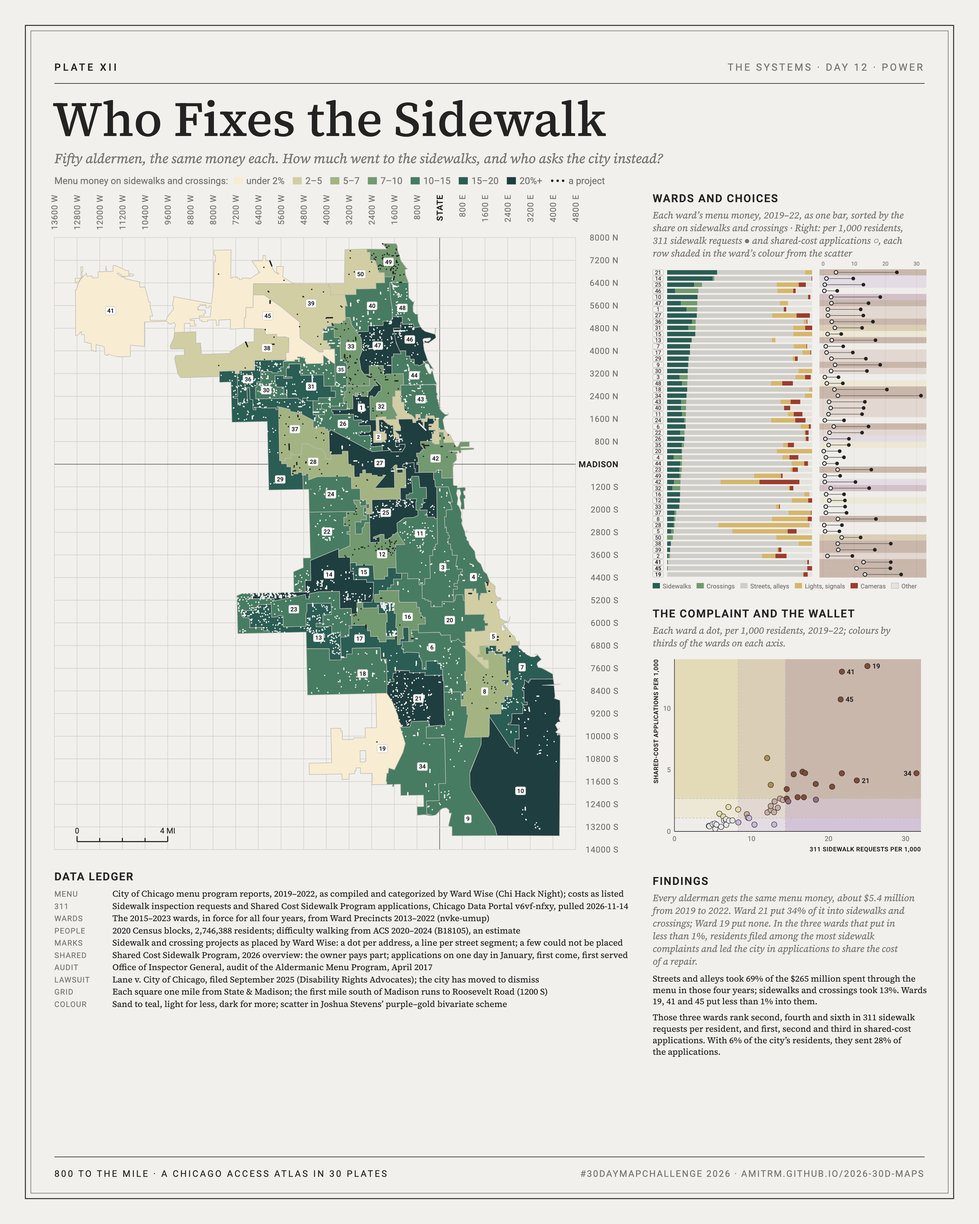
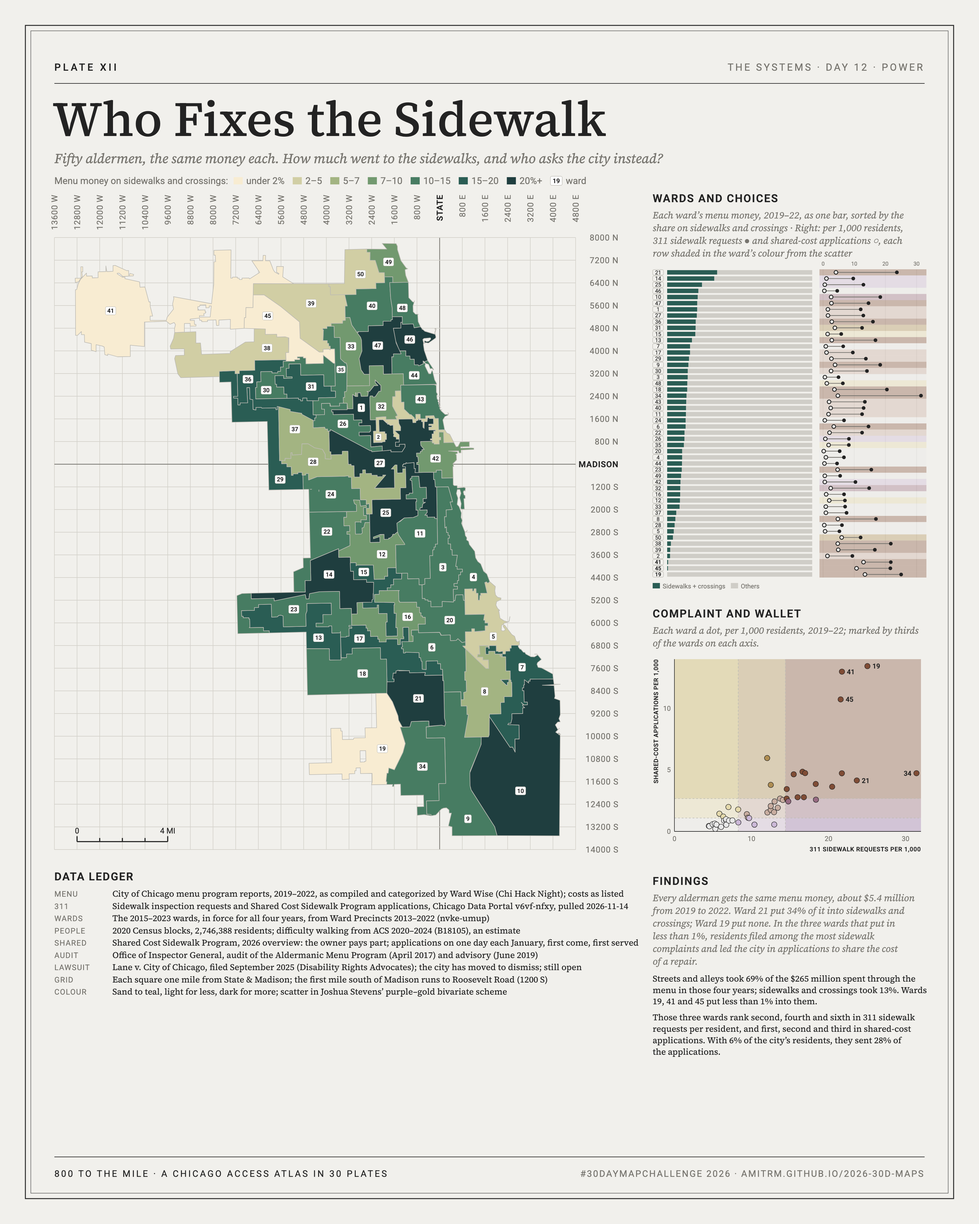
Day 12: final check; two spending groups, Complaint and Wallet, Chapter II intro
Remove the project dots; spending in two groups (sidewalks + crossings, others) on the
chart and in the tooltip; walking difficulty as a share; ten wards at each end on the page;
scatter retitled Complaint and Wallet without a frame. Fact-check wording for the Inspector
General audit, Lane v. City of Chicago and the shared-cost program; median days now counts
closed requests. Landing: Chapter II description covers Plates VII-XII.

diff --git a/src/plates/day12.js b/src/plates/day12.js
@@ -14,7 +14,7 @@ import { gridLines, formatAddress, toMiles } from '../lib/grid.js';
 export const W_COL = 300;
 export const CHART_TITLE = 'Wards and Choices';
 export const CHART_NOTE = 'Each ward’s menu money, 2019–22, as one bar, sorted by the share on sidewalks and crossings · Right: per 1,000 residents, 311 sidewalk requests ● and shared-cost applications ○';
-export const INSET_TITLE = 'The complaint and the wallet';
+export const INSET_TITLE = 'Complaint and Wallet';
 // the map's seven classes of menu share (breaks in plate.json: 2, 5, 7, 10, 15, 20%), light to dark
 export const MAP_TONES = ['#E4E2DC', '#CFCDC6', '#B6B4AD', '#9A9891', '#7C7A74', '#5A5954', '#3A3936'];
 // color mode, chosen 2026-11-14 after a test of 16 palettes (.private/day12-palette-*.png):
@@ -62,23 +62,23 @@ export function wardSheet(w, years, fill, cat, rk) {
     num: String(w.ward), name: `Ward ${w.ward}`, sub: `${pct(w.share)} on sidewalks`, fill, on: isDark(fill) ? '#FFFFFF' : C.ink,
     blocks: [
       { sec: `The alderman · menu money ${yy}` },
-      { bar: CATS.map((c) => [+(w[c] / w.total).toFixed(4), cat[c]]) },
+      { bar: [[+w.share.toFixed(4), cat.sidewalks], [+(1 - w.share).toFixed(4), cat.streets]] }, // sidewalks + crossings, others
       { row: ['Total', `$${(w.total / 1e6).toFixed(1)}M`] },
       { row: ['Sidewalks and crossings', pct(w.share), `${ord(rk.share)} of 50`] },
       { sec: 'The complaint · 311 sidewalk requests' },
       { row: ['Filed, per 1,000 residents', w.filed1k.toFixed(1), `${ord(rk.filed1k)} of 50`] },
       { row: ['Open today · 3 years or more', `${fmt(w.open)} · ${fmt(w.open3)}`] },
-      { row: ['Half closed within', `${fmt(w.closeDays)} days`] },
+      { row: ['Closed requests: half within', `${fmt(w.closeDays)} days`] },
       { sec: 'The wallet · shared-cost applications' },
       { row: ['Per 1,000 residents', w.shared1k.toFixed(1), `${ord(rk.shared1k)} of 50`] },
-      { foot: `${fmt(w.pop)} residents · about ${fmt(w.amb)} with a difficulty walking` },
+      { foot: `${fmt(w.pop)} residents · about ${Math.round((100 * w.amb) / w.pop)}% with a difficulty walking` },
     ],
   });
 }
 const attr = (s) => esc(s).replace(/"/g, '&quot;');
 
 export function renderDay12(data, { mode = 'gray', variant = 'plate', palette, chartOpts = {}, insetOpts = {} } = {}) {
-  const { wards, lines = [], ticks = [], summary } = data;
+  const { wards, summary } = data;
   const years = summary.years;
   const out = [];
   const isPlate = variant === 'plate';
@@ -92,7 +92,6 @@ export function renderDay12(data, { mode = 'gray', variant = 'plate', palette, c
   const PAL = color ? (typeof palette === 'object' ? palette : PALETTES[palette ?? COLOR_PALETTE]) : PALETTES.gray;
   const CAT = color ? { ...CAT_COLOR, ...(PAL.cat ?? {}) } : CAT_GRAY; // a palette may recolour the chart's sidewalks and crossings
   const BV = PAL.biv ?? BIV; // the scatter's 3 x 3 scheme: the palette's own, else the default
-  const byWard = new Map(wards.map((w) => [w.ward, w]));
   // ranks among the 50 wards (1 = highest), for the tooltip sheet
   const rankOf = (key, w) => 1 + wards.filter((x) => x[key] > w[key]).length;
   // the hover hooks every view of a ward shares: the sheet tooltip, and data-keys to light it up everywhere
@@ -142,26 +141,10 @@ export function renderDay12(data, { mode = 'gray', variant = 'plate', palette, c
     for (const x of g.xs) out.push(`<line x1="${X(x)}" x2="${X(x)}" y1="${fy0}" y2="${fy1}" stroke="${x === 0 ? C.pencil : C.grid}" stroke-width="${x === 0 ? 0.8 : 0.6}"/>`);
     for (const y of g.ys) out.push(`<line x1="${fx0}" x2="${fx1}" y1="${Y(y)}" y2="${Y(y)}" stroke="${y === 0 ? C.pencil : C.grid}" stroke-width="${y === 0 ? 0.8 : 0.6}"/>`);
     // wards in place, split by a thin paper gap
-    const WX = () => X;
-    const WY = () => Y;
     // ward outlines in light gray (frame), at the user's request: the series' one other exception to
     // "no outlines" after Plate VIII's coastline
     for (const w of wards) out.push(piece(w, X, Y, PAL.map[w.cls], isMap ? 0.8 : 0.6, C.frame));
-    // projects: ink on the lighter tones, paper on the two darkest
-    const rDot = isMap ? 0.95 : 0.75;
-    const marks = { ink: [], paper: [] };
-    for (const [wn, p] of lines) {
-      const w = byWard.get(wn); if (!w) continue;
-      const fx = WX(w), fy = WY(w);
-      marks[isDark(PAL.map[w.cls]) ? 'paper' : 'ink'].push('M' + p.map(([x, y]) => `${fx(x).toFixed(1)},${fy(y).toFixed(1)}`).join('L'));
-    }
-    for (const [wn, x, y] of ticks) {
-      const w = byWard.get(wn); if (!w) continue;
-      marks[isDark(PAL.map[w.cls]) ? 'paper' : 'ink'].push(`M${WX(w)(x).toFixed(1)} ${WY(w)(y).toFixed(1)}h0.01`);
-    }
-    for (const [key, col] of [['ink', C.ink], ['paper', C.paper]]) {
-      out.push(`<path d="${marks[key].join('')}" fill="none" stroke="${col}" stroke-width="${(2 * rDot).toFixed(2)}" stroke-linecap="round" stroke-linejoin="round" pointer-events="none"/>`);
-    }
+    // (the sidewalk and crossing projects are no longer drawn: user, 2026-11-14)
     // ward numbers in white boxes, each at the spot the notebook found inside its ward (lx, ly), where a
     // box of the plate's size clears the ward's boundary by 1.2 px or more; narrow wards (ls < 1) take a
     // smaller box. Wards do not overlap, so neither do the boxes. The page's map is larger, so its
@@ -187,11 +170,11 @@ export function renderDay12(data, { mode = 'gray', variant = 'plate', palette, c
     // legend
     const lgs = 9 * T;
     const sw = (fill) => `<rect x="-5" y="-4" width="10" height="8" fill="${fill}"/>`;
-    const dotMark = `<circle r="1.4" fill="${C.ink}"/><circle cx="6" r="1.4" fill="${C.ink}"/><circle cx="-6" r="1.4" fill="${C.ink}"/>`;
+    const numMark = (fs) => `<rect x="-6.5" y="-5" width="13" height="10" rx="1.5" fill="#FFFFFF" stroke="${C.frame}" stroke-width="0.5"/><text y="${(fs * 0.36).toFixed(1)}" font-size="${fs}" font-weight="600" text-anchor="middle" fill="${C.ink}" font-family="Roboto, sans-serif">19</text>`;
     if (isPlate) {
       const short = [['head', 'Menu money on sidewalks and crossings']];
       CLASS_LABELS.forEach((l, i) => short.push([sw(PAL.map[i]), i === 0 ? 'under 2%' : i === CLASS_LABELS.length - 1 ? '20%+' : l.replace('%', '')]));
-      short.push([dotMark, 'a project']);
+      short.push([numMark(7), 'ward']);
       let lx = 60;
       const y = 203;
       for (const [m, lab] of short) {
@@ -200,14 +183,14 @@ export function renderDay12(data, { mode = 'gray', variant = 'plate', palette, c
           lx += textWidth(`${lab}:`, lgs) + 6;
           continue;
         }
-        const mw = m.includes('cx="6"') ? 16 : 10;
+        const mw = m.includes('<text') ? 13 : 10;
         out.push(`<g transform="translate(${lx + mw / 2} ${y - lgs * 0.35})">${m}</g>`);
         out.push(text(lx + mw + 4, y, lab, { size: lgs, fill: C.pencil }));
         lx += mw + 4 + textWidth(lab, lgs) + 9;
       }
     } else {
       const items = [['head', `Menu money on sidewalks, ${years[0]}–${String(years[1]).slice(2)}`], ...CLASS_LABELS.map((l, i) => [sw(PAL.map[i]), l]), ['gap'],
-        [dotMark, 'A sidewalk or crossing project'], [`<rect x="-6.5" y="-5" width="13" height="10" rx="1.5" fill="#FFFFFF" stroke="${C.frame}" stroke-width="0.5"/><text y="3" font-size="8" font-weight="600" text-anchor="middle" fill="${C.ink}">19</text>`, 'Ward number (2015–2023 wards)']];
+        [numMark(8), 'Ward number (2015–2023 wards)']];
       out.push(legendBox(items, { x: rx, bottom: Y(ext.south) - k, k, size: lgs }));
     }
   }
@@ -225,11 +208,11 @@ export function renderDay12(data, { mode = 'gray', variant = 'plate', palette, c
   let uy = 0;
 
   if (isPlate || isChart) {
-    // page chart options (study): width, row, font, cats ('all' | 'three'), dots, top (N wards each end)
+    // page chart options: width, row, font, cats ('two' | 'three' | 'all'), dots, top (N wards each end)
     // the page chart (chosen 2026-11-14, option B of .private/day12-middle-study): drawn 1:1 in the 259 px
-    // column at 10 px, the 5 wards that spent most and the 5 that spent least (user, B2), three categories with the
-    // sidewalk share printed, the dots kept. The plate keeps all 50 rows and six categories.
-    const co = isChart ? { width: 253, row: 14, font: 10, cats: 'three', dots: true, top: 5, ...chartOpts } : { cats: 'all', dots: true, top: 0 };
+    // column at 10 px, the 10 wards that spent most and the 10 that spent least (user), two spending groups with the
+    // sidewalk share printed, the dots kept. The plate keeps all 50 rows, also in the two groups.
+    const co = isChart ? { width: 253, row: 14, font: 10, cats: 'two', dots: true, top: 10, ...chartOpts } : { cats: 'two', dots: true, top: 0 };
     const cw = isChart ? co.width : W_COL;
     const row = isChart ? co.row : 6.8;
     const cs = isChart ? co.font : 6;
@@ -237,10 +220,12 @@ export function renderDay12(data, { mode = 'gray', variant = 'plate', palette, c
     const barX = mx + numW + 4;
     const barW = isChart ? (co.dots ? Math.round((cw - numW) * 0.52) : cw - numW - 6) : 160;
     const dotX0 = barX + barW + 12, dotX1 = mx + cw - 2;
-    const CATS_USED = co.cats === 'three' ? ['walk', 'streets', 'rest'] : CATS;
-    const catVal = (w, c) => (c === 'walk' ? w.sidewalks + w.crossings : c === 'rest' ? w.lights + w.cameras + w.other : w[c]);
-    const fill3 = { walk: catFill('sidewalks'), streets: catFill('streets'), rest: color ? '#B9B29A' : '#9C9A93' };
-    const lab3 = { walk: 'Sidewalks, crossings', streets: 'Streets, alleys', rest: 'Lights, cameras, other' };
+    // spending groups (user, 2026-11-14: two, 'Sidewalks + crossings' and 'Others' in the streets' gray);
+    // 'three' and 'all' kept for studies
+    const CATS_USED = co.cats === 'two' ? ['walk', 'others'] : co.cats === 'three' ? ['walk', 'streets', 'rest'] : CATS;
+    const catVal = (w, c) => (c === 'walk' ? w.sidewalks + w.crossings : c === 'others' ? w.total - w.sidewalks - w.crossings : c === 'rest' ? w.lights + w.cameras + w.other : w[c]);
+    const fill3 = { walk: catFill('sidewalks'), others: catFill('streets'), streets: catFill('streets'), rest: color ? '#B9B29A' : '#9C9A93' };
+    const lab3 = { walk: 'Sidewalks + crossings', others: 'Others', streets: 'Streets, alleys', rest: 'Lights, cameras, other' };
     const dx = (v) => dotX0 + Math.min(v, DOT_MAX) / DOT_MAX * (dotX1 - dotX0);
     if (isChart) uy = co.dots ? Math.ceil(cs + 4) : 4; // room for the dot scale above the rows
     else {
@@ -276,10 +261,10 @@ export function renderDay12(data, { mode = 'gray', variant = 'plate', palette, c
       let x = barX;
       for (const c of CATS_USED) {
         const ww = barW * (catVal(w, c) / w.total);
-        if (ww > 0.05) out.push(`<rect x="${x.toFixed(2)}" y="${(uy + row * 0.14).toFixed(2)}" width="${ww.toFixed(2)}" height="${(row * 0.72).toFixed(2)}" fill="${co.cats === 'three' ? fill3[c] : catFill(c)}"/>`);
+        if (ww > 0.05) out.push(`<rect x="${x.toFixed(2)}" y="${(uy + row * 0.14).toFixed(2)}" width="${ww.toFixed(2)}" height="${(row * 0.72).toFixed(2)}" fill="${co.cats !== 'all' ? fill3[c] : catFill(c)}"/>`);
         x += ww;
       }
-      if (co.cats === 'three' && isChart) out.push(text(barX + barW * (catVal(w, 'walk') / w.total) + 3, cy + cs * 0.34, pct(w.share), { size: cs * 0.92, fill: C.ink, weight: 500 }));
+      if (co.cats !== 'all' && isChart) out.push(text(barX + barW * (catVal(w, 'walk') / w.total) + 3, cy + cs * 0.34, pct(w.share), { size: cs * 0.92, fill: C.ink, weight: 500 }));
       if (!co.dots) { if (hooks) out.push('</g>'); uy += row; continue; }
       const a = dx(w.filed1k), b = dx(w.shared1k), r = row * 0.3;
       // colour mode: the row behind the dots takes the ward's colour in the scatter (its bivariate
@@ -296,10 +281,10 @@ export function renderDay12(data, { mode = 'gray', variant = 'plate', palette, c
     let kx = mx;
     const ks = isChart ? cs : 7;
     CATS_USED.forEach((c, i) => {
-      const lab = co.cats === 'three' ? lab3[c] : CAT_LABEL[c];
+      const lab = co.cats !== 'all' ? lab3[c] : CAT_LABEL[c];
       const kw = 11 + textWidth(lab, ks) + (isChart ? 10 : 6);
       if (isChart && kx > mx && kx + kw > mx + cw) { kx = mx; uy += ks + 5; } // wrap the key to the width
-      out.push(`<rect x="${kx}" y="${uy}" width="8" height="6" fill="${co.cats === 'three' ? fill3[c] : catFill(c)}"${c === 'other' ? ` stroke="${C.frame}" stroke-width="0.5"` : ''}/>`);
+      out.push(`<rect x="${kx}" y="${uy}" width="8" height="6" fill="${co.cats !== 'all' ? fill3[c] : catFill(c)}"${c === 'other' ? ` stroke="${C.frame}" stroke-width="0.5"` : ''}/>`);
       out.push(text(kx + 11, uy + 6, lab, { size: ks, fill: C.pencil }));
       kx += kw;
     });
@@ -317,12 +302,12 @@ export function renderDay12(data, { mode = 'gray', variant = 'plate', palette, c
   let noteH = 0;
   if (isPlate) {
     title(ty, INSET_TITLE.toUpperCase());
-    const str = color ? 'Each ward a dot, per 1,000 residents, 2019–22; colours by thirds of the wards on each axis.' : 'Each ward a dot, per 1,000 residents, 2019–22; dashed lines cut each axis into thirds of the wards.';
+    const str = 'Each ward a dot, per 1,000 residents, 2019–22; marked by thirds of the wards on each axis.';
     const ls = wrap(str, Math.floor(W_COL / (ns * 0.45)));
     ls.forEach((l, i) => note(ty + (i + 1) * nh + 4, l));
     noteH = ls.length * nh;
   }
-  const io = { width: 259, height: 380, font: 11, ...insetOpts }; // the page scatter: 1:1 in the 259 px column
+  const io = { width: 259, height: 250, font: 11, ...insetOpts }; // the page scatter: 1:1 in the 259 px column
   const iw = isInset ? io.width : W_COL;
   const fs = isInset ? io.font : 7.5;
   const padL = isInset ? Math.round(io.font * 3.3) : 24, padB = isInset ? 34 : 28;
@@ -389,10 +374,9 @@ export function renderDay12(data, { mode = 'gray', variant = 'plate', palette, c
     ['311', `Sidewalk inspection requests and Shared Cost Sidewalk Program applications, Chicago Data Portal v6vf-nfxy, pulled ${data.pulled311}`],
     ['WARDS', 'The 2015–2023 wards, in force for all four years, from Ward Precincts 2013–2022 (nvke-umup)'],
     ['PEOPLE', `2020 Census blocks, ${fmt(summary.residents)} residents; difficulty walking from ACS 2020–2024 (B18105), an estimate`],
-    ['MARKS', 'Sidewalk and crossing projects as placed by Ward Wise: a dot per address, a line per street segment; a few could not be placed'],
-    ['SHARED', 'Shared Cost Sidewalk Program, 2026 overview: the owner pays part; applications on one day in January, first come, first served'],
-    ['AUDIT', 'Office of Inspector General, audit of the Aldermanic Menu Program, April 2017'],
-    ['LAWSUIT', 'Lane v. City of Chicago, filed September 2025 (Disability Rights Advocates); the city has moved to dismiss'],
+    ['SHARED', 'Shared Cost Sidewalk Program, 2026 overview: the owner pays part; applications on one day each January, first come, first served'],
+    ['AUDIT', 'Office of Inspector General, audit of the Aldermanic Menu Program (April 2017) and advisory (June 2019)'],
+    ['LAWSUIT', 'Lane v. City of Chicago, filed September 2025 (Disability Rights Advocates); the city has moved to dismiss; still open'],
     ['GRID', 'Each square one mile from State & Madison; the first mile south of Madison runs to Roosevelt Road (1200 S)'],
     ...(color && PAL === PALETTES.sandteal ? [['COLOUR', 'Sand to teal, light for less, dark for more; scatter in Joshua Stevens’ purple–gold bivariate scheme']] : []),
   ];

diff --git a/src/plates/index.js b/src/plates/index.js
@@ -435,8 +435,8 @@ const d12Story = {
   sections: [
     ['Background', [
       `The CTA runs the trains and the buses. The block between a rider’s front door and the stop belongs to the city, and in Chicago much of what gets fixed on it is chosen ward by ward. Each of the 50 aldermen gets the same sum of “menu” money every year (${d12M(d12.alloc['2019'])} in 2019, ${d12M(d12.alloc['2021'])} from 2021) and picks which streets, alleys, lights and sidewalks in the ward it pays for.`,
-      `This plate maps those choices from ${d12.years[0]} to ${d12.years[1]}, the last four full years on one ward map. Each ward is shaded by the share of its menu money that went to sidewalks and crossings, and each dot is one of those projects.`,
-      'Residents have two other ways to get a sidewalk fixed: a 311 request for an inspection, or an application to the Shared Cost Sidewalk Program, in which the owner pays part of the repair. The inset plots the two against each other, each ward a dot. Hover a ward, a dot or a row in the chart for its numbers; the same ward lights up in all three.',
+      `This plate maps those choices from ${d12.years[0]} to ${d12.years[1]}, the last four full years on one ward map. Each ward is shaded by the share of its menu money that went to sidewalks and crossings.`,
+      'Residents have two other ways to get a sidewalk fixed: a 311 request for an inspection, or an application to the Shared Cost Sidewalk Program, in which the owner pays part of the repair. The Complaint and Wallet chart plots the two against each other, each ward a dot. Wards and Choices shows the ten wards at each end here, and all fifty on the plate. Hover a ward on the map, a row or a dot for its numbers; the same ward lights up in all three.',
     ]],
     ['Findings', [
       day12Data.finding,
@@ -444,17 +444,17 @@ const d12Story = {
       `Those ${d12Num(d12.low.length)} wards rank ${d12List(d12.lowRank.filed.map(d12Ord))} in 311 sidewalk requests per resident, and ${d12List(d12.lowRank.shared.map(d12Ord))} in shared-cost applications. With ${pct(d12LowPop)} of the city’s residents, they sent ${pct(d12.lowSharedShare)} of the applications.`,
       `Requests and applications rise and fall together (a rank correlation of ${d12.corr.filed_shared.toFixed(2)} across the wards). Both are highest on the Northwest Side and the far South and Southwest Sides, and lowest along the north lakefront, on the inner South Side and on the West Side.`,
       `The alderman’s choice follows neither. The share spent on sidewalks has almost no relation to how many residents have a difficulty walking (rank correlation ${d12.corr.share_amb.toFixed(2)}) or to how many file requests (${d12.corr.share_filed.toFixed(2)}).`,
-      `On ${d12Pulled}, ${fmt(d12.open)} sidewalk requests were still open, ${fmt(d12.open3)} of them for three years or more. Half of the requests filed from ${d12.years[0]} to ${d12.years[1]} closed within ${fmt(d12.closeDays[0])} days in Ward ${d12.closeWards[0]}; in Ward ${d12.closeWards[1]}, half took ${fmt(d12.closeDays[2])} days or more.`,
+      `On ${d12Pulled}, ${fmt(d12.open)} sidewalk requests were still open, ${fmt(d12.open3)} of them for three years or more. Of the requests filed from ${d12.years[0]} to ${d12.years[1]} that have been closed, half took ${fmt(d12.closeDays[0])} days or less in Ward ${d12.closeWards[0]}, and ${fmt(d12.closeDays[2])} days or more in Ward ${d12.closeWards[1]}.`,
     ], true],
     ['Three kinds of power', [
-      'The alderman’s. Menu money is the same for every ward, whatever its size or the state of its streets. In 2017 the city’s Inspector General found that this flat sum bears no relationship to what each ward needs, and that in 2015 the program fell about $228.8 million a year short of the city’s residential street, alley and sidewalk needs.',
-      'The complaint. Anyone can ask 311 for a sidewalk inspection. In Lane v. City of Chicago, filed in September 2025, four residents with mobility disabilities argue that the city relies on such complaints instead of a plan, and count more than 20,000 sidewalk requests left open for a year or more. The city has moved to dismiss the case.',
-      'The wallet. Through the Shared Cost Sidewalk Program an owner pays part of the repair, about $1,000 to $2,400 for a typical lot, and seniors and people with disabilities may qualify for half off. Applications open through 311 on one day in January and are taken first come, first served while the money lasts.',
+      'The alderman’s. Menu money is the same for every ward, whatever its size or the state of its streets. In 2017 the city’s Inspector General found that the sum is set without regard to what each ward needs, and that, with needs priced at 2015 costs, it left the city’s residential streets, alleys and sidewalks about $228.8 million a year short.',
+      'The complaint. Anyone can ask 311 for a sidewalk inspection. In Lane v. City of Chicago, filed in September 2025, four residents with mobility disabilities argue that the city relies on such complaints instead of a plan, and count more than 20,000 sidewalk requests left open for a year or more. The city has moved to dismiss the case, arguing that the plaintiffs lack standing; when this plate was made the case was still open.',
+      'The wallet. Through the Shared Cost Sidewalk Program an owner pays part of the repair, about $1,000 to $2,400 for an average mid-block lot, and owners who are seniors or have a disability and live in the home may qualify for half off. Applications open through 311 on one day each January and are taken first come, first served, as far as the year’s budget allows.',
     ]],
     ['What the map cannot see', [
       'Who asked. A 311 request records a place, not a person: it cannot say whether the caller owns the house, rents, or walks with difficulty. An application is not a repair.',
       'Other budgets. The city also repairs sidewalks and builds curb ramps through its own programs and street projects, which are not part of the menu and are not on this map.',
-      `Plans, not invoices. Menu costs are as listed in the city’s menu reports, compiled by Ward Wise. ${d12.years[0] + 1} was a short year: half the wards listed less than ${d12M(d12.alloc['2020'])}. A few projects could not be placed and have no dot.`,
+      `Plans, not invoices. Menu costs are as listed in the city’s menu reports, compiled by Ward Wise. ${d12.years[0] + 1} was a short year: half the wards listed less than ${d12M(d12.alloc['2020'])}.`,
       'Old wards. The map uses the wards of 2015–2023, in force for all four years; the city redrew them in 2023.',
     ]],
   ],
@@ -848,26 +848,27 @@ export const plates = {
     finding: day12Data.finding,
     story: d12Story,
     ledger: [
-      ['Menu', `City of Chicago menu program reports, ${d12.years[0]}–${d12.years[1]}, compiled, categorized and geocoded by Ward Wise, a Chi Hack Night group (MIT licence). Costs as listed. Sidewalks: Ward Wise’s “Sidewalk Repair”; crossings: “Pedestrian Infrastructure” (bump-outs, refuge islands, crosswalk signs, countdown signals).`, day12Data.sources.wardwise],
+      ['Menu', `City of Chicago menu program reports, ${d12.years[0]}–${d12.years[1]}, compiled and categorized by Ward Wise, a Chi Hack Night group (MIT licence). Costs as listed. Sidewalks: Ward Wise’s “Sidewalk Repair”; crossings: “Pedestrian Infrastructure” (bump-outs, refuge islands, crosswalk signs, countdown signals).`, day12Data.sources.wardwise],
       ['Reports', 'Office of Budget and Management, Capital Improvement Archive (menu reports).', day12Data.sources.obm],
       ['311', `Chicago Data Portal, 311 Service Requests: “Sidewalk Inspection Request” and “Shared Cost Sidewalk Program Request”, pulled ${day12Data.pulled311}; placed in wards by their location.`, day12Data.sources.sr311],
       ['Wards', 'The 2015–2023 wards, in force for all four years, built from Ward Precincts 2013–2022.', day12Data.sources.precincts],
       ['People', `2020 Census: ${fmt(d12.residents)} residents, placed by their block’s internal point; difficulty walking from ACS 2020–2024 (B18105), allocated to blocks by population (an estimate).`, 'https://www.census.gov/programs-surveys/decennial-census/about/rdo/summary-files.html'],
       ['Sources', [
-        ['Inspector General, menu program audit (2017)', 'https://devigchicago.igchicago.org/wp-content/uploads/2023/08/CDOT-Aldermanic-Menu-Program-Audit.pdf'],
+        ['Inspector General, menu program audit (2017)', 'https://igchicago.org/2017/04/20/cdot-aldermanic-menu-program-audit-2/'],
+        ['Inspector General, advisory on residential street infrastructure (2019)', 'https://igchicago.org/?p=20680'],
         ['Shared Cost Sidewalk Program, 2026 overview', 'https://www.19thwardmobile.com/wp-content/uploads/2026/01/2026-SCSP-Overview_2025.12.15.pdf'],
         ['Lane v. City of Chicago (Disability Rights Advocates)', 'https://dralegal.org/case/lane-v-city-of-chicago/'],
         ['WTTW on the motion to dismiss (June 2026)', 'https://news.wttw.com/2026/06/22/chicago-s-sidewalks-aren-t-accessible-people-mobility-challenges-lawsuit-argues-city'],
       ]],
       ['Grid', 'Each square is one mile, measured from State & Madison, and grid lines carry address numbers. The first mile south of Madison runs to Roosevelt Road (1200 S).'],
       ['Colour', `Seven classes of the share spent on sidewalks and crossings: under 2%, 2–5, 5–7, 7–10, 10–15, 15–20 and 20% or more. In colour mode they run from sand to teal in seven even steps of lightness, light for less, dark for more, and the chart’s sidewalk and crossing bars take the same teals. In grayscale the same classes step from light to dark. The city as a whole spent ${pct(d12.walkShare)}.`],
-      ['Scatter', 'In colour mode the inset’s nine cells (thirds of the wards on each axis) use Joshua Stevens’ purple–gold bivariate scheme: purple for more requests, gold for more applications, umber for both.', 'https://www.joshuastevens.net/cartography/make-a-bivariate-choropleth-map/'],
+      ['Scatter', 'In colour mode the nine cells of Complaint and Wallet (thirds of the wards on each axis) use Joshua Stevens’ purple–gold bivariate scheme: purple for more requests, gold for more applications, umber for both.', 'https://www.joshuastevens.net/cartography/make-a-bivariate-choropleth-map/'],
     ],
     page: {
-      // the page chart shows the five wards at each end (all fifty are on the plate, the map and in the
+      // the page chart shows the ten wards at each end (all fifty are on the plate, the map and in the
       // tooltips); one-line notes leave the scatter room
-      chart: { title: D12_CHART_TITLE, note: 'Five wards at each end · ● 311 requests, ○ shared-cost applications, per 1,000 residents.' },
-      inset: { title: D12_INSET, note: `Each ward a dot, per 1,000 residents, ${d12.years[0]}–${String(d12.years[1]).slice(2)}; colours by thirds of the wards on each axis.` }, // replaces the page's “Shown at ×N” note
+      chart: { title: D12_CHART_TITLE, note: 'Ten wards at each end · ● 311 requests, ○ shared-cost applications, per 1,000 residents.', colorNote: ' Rows shaded as in the scatter below.' },
+      inset: { title: D12_INSET, note: `Each ward a dot, per 1,000 residents, ${d12.years[0]}–${String(d12.years[1]).slice(2)}; marked by thirds of the wards on each axis.`, frame: false }, // replaces the page's “Shown at ×N” note
     },
     csv: () =>
       csv([
